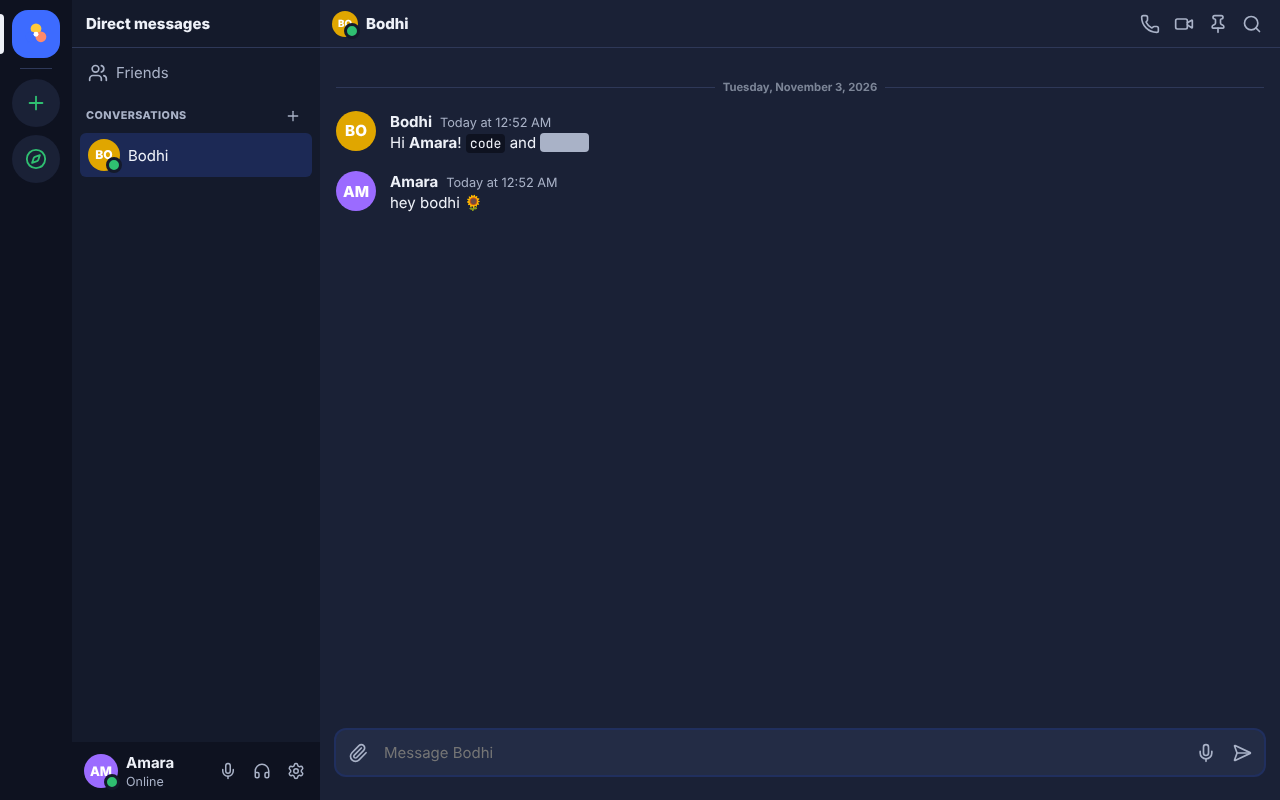
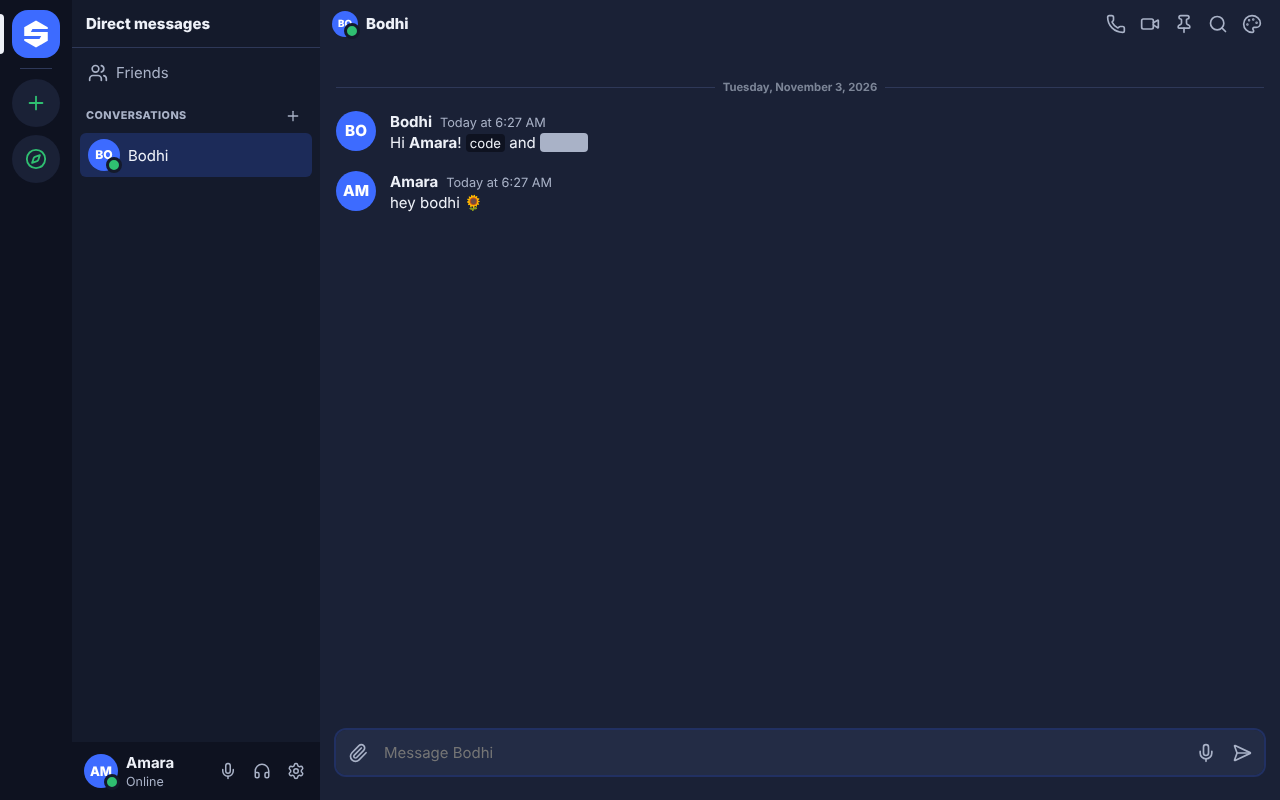
Syndo: appearance browser checks 26/26, messaging e2e updated for Studio, horizontal rail indicator fix, screenshots
Claude-Session: https://claude.ai/code/session_017R3Wps2LFerKmS9NzhPMPH

diff --git a/syndo/web/src/styles.css b/syndo/web/src/styles.css
@@ -634,3 +634,5 @@ a, .md-p a { color: var(--link, var(--accent)); }
   [data-nav="horizontal"] .rail { flex-direction: column; height: auto; overflow-y: auto; }
   [data-panel-style="floating"] .shell { padding: 0; gap: 0; }
 }
+[data-nav="horizontal"] .rail-item .pill { height: 4px !important; top: auto; }
+[data-nav="horizontal"] .rail-item:not(.active):not(.unread):not(:hover) .pill { width: 0; }
